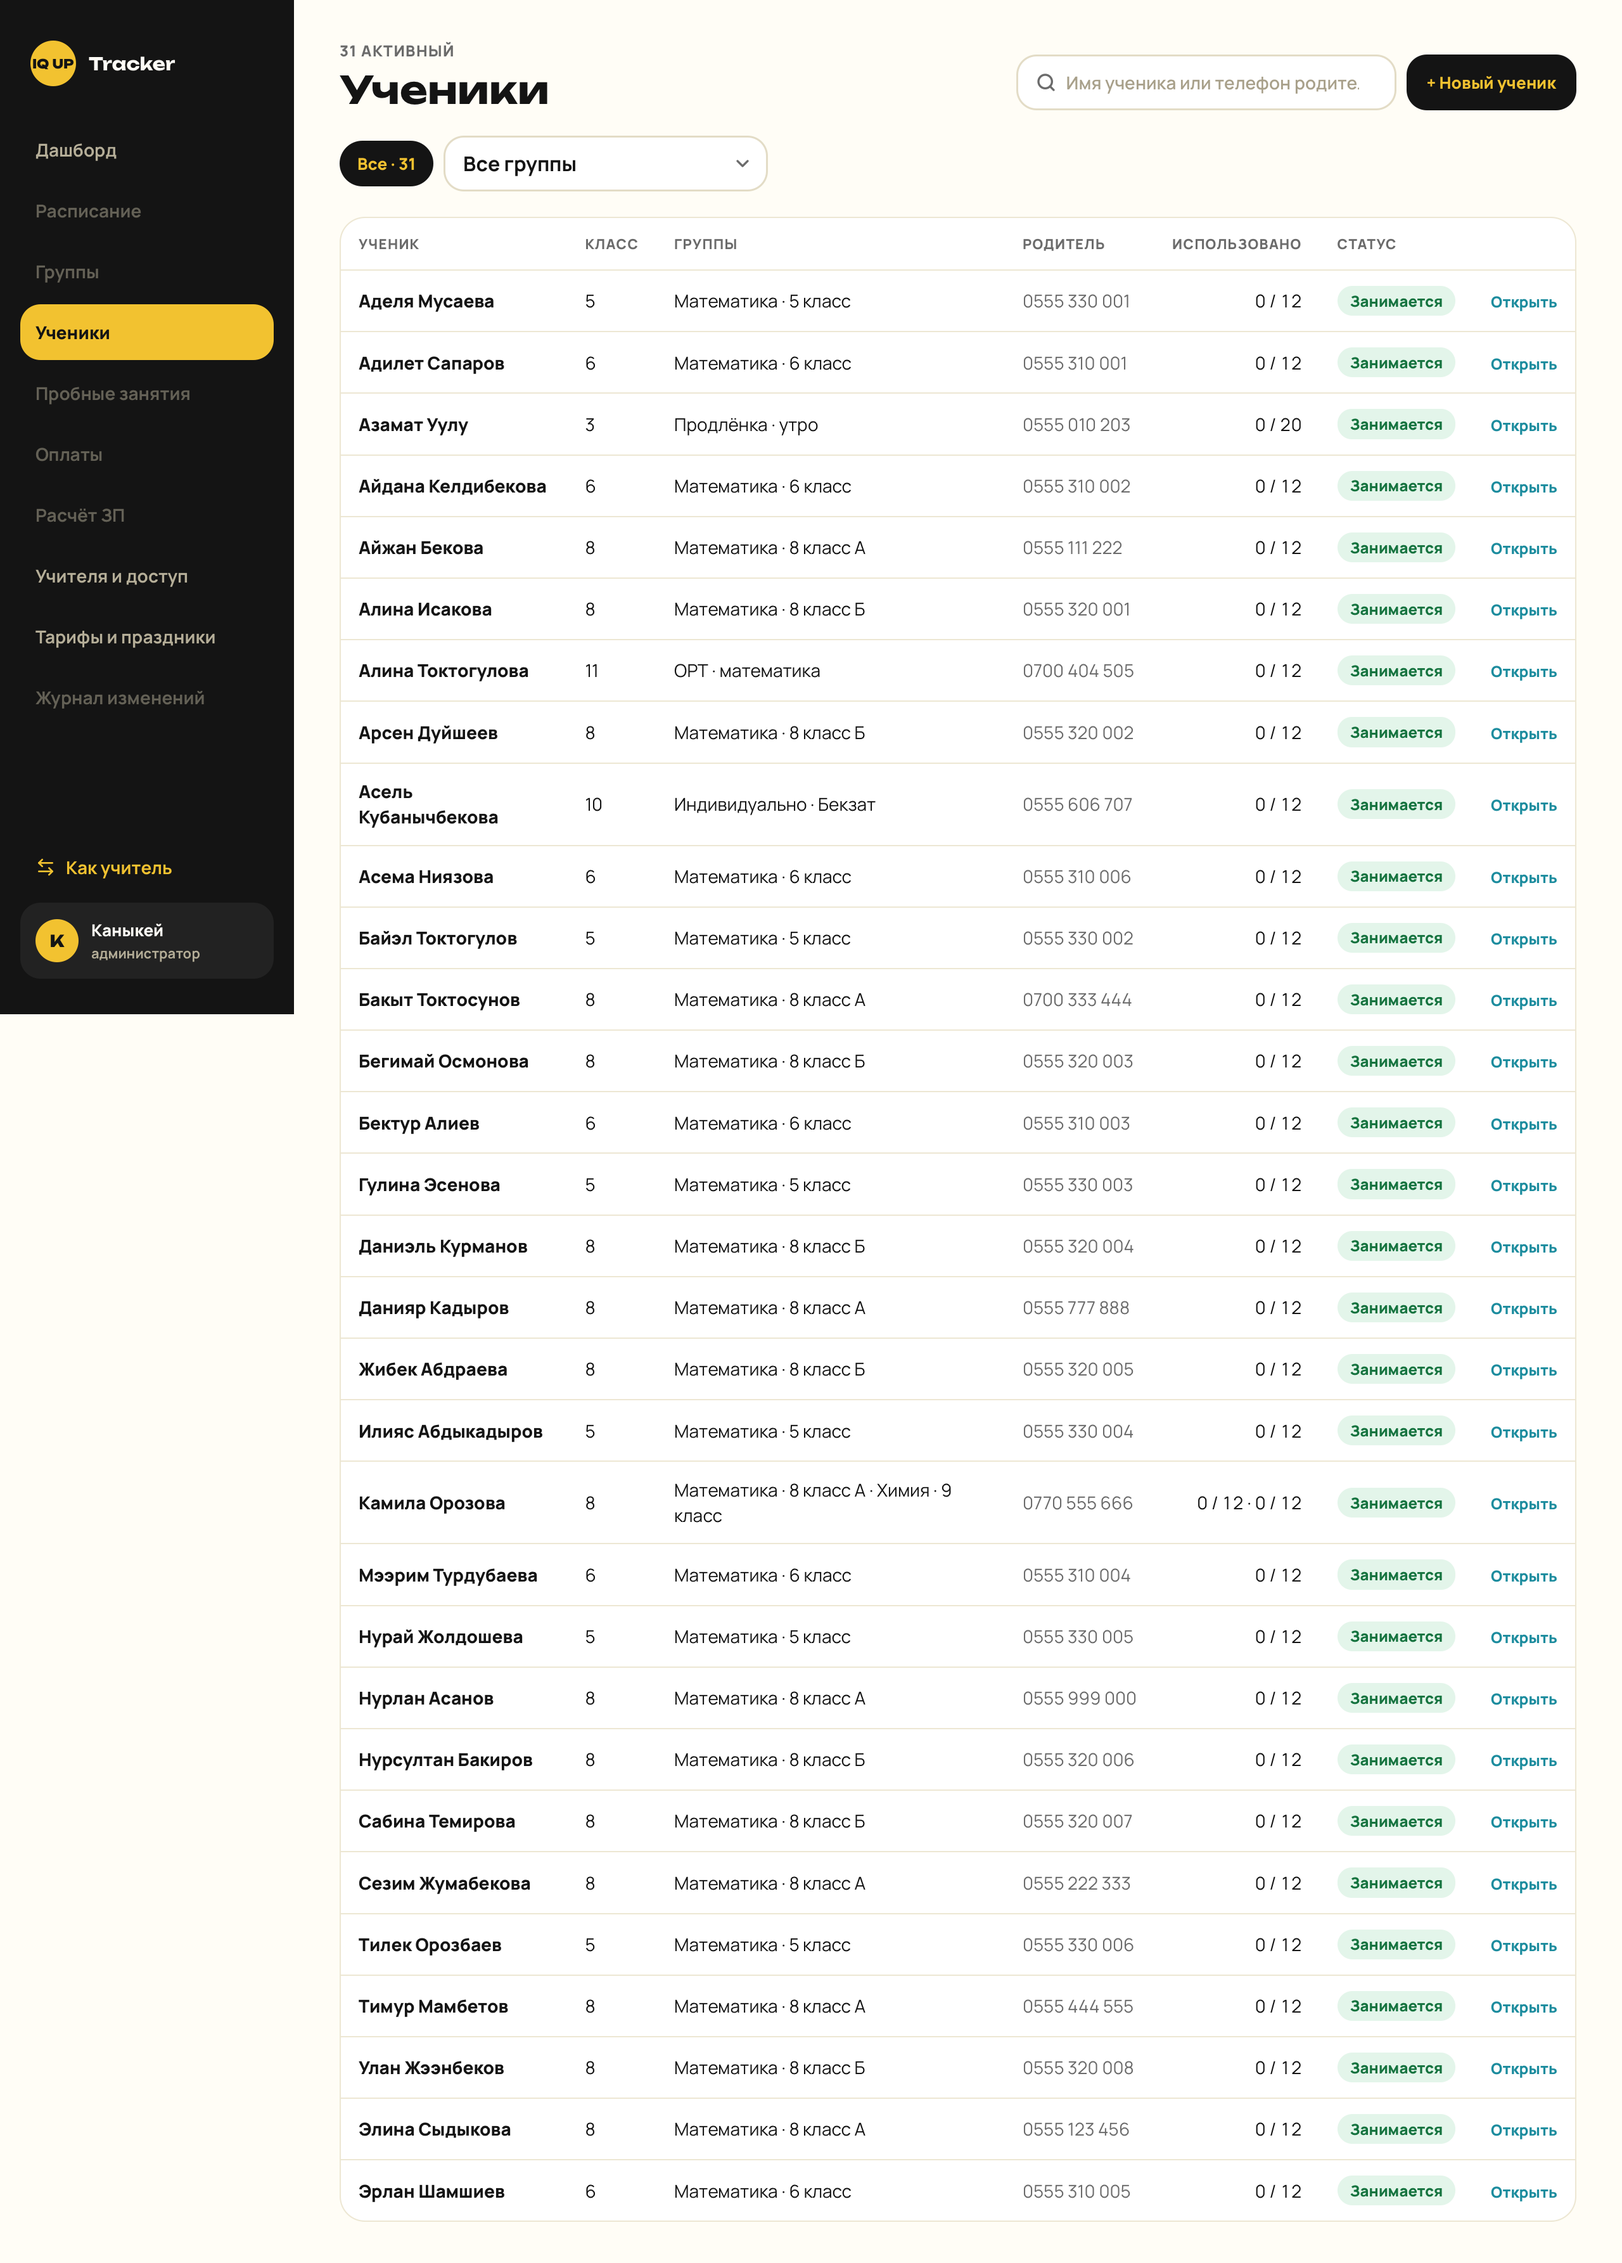
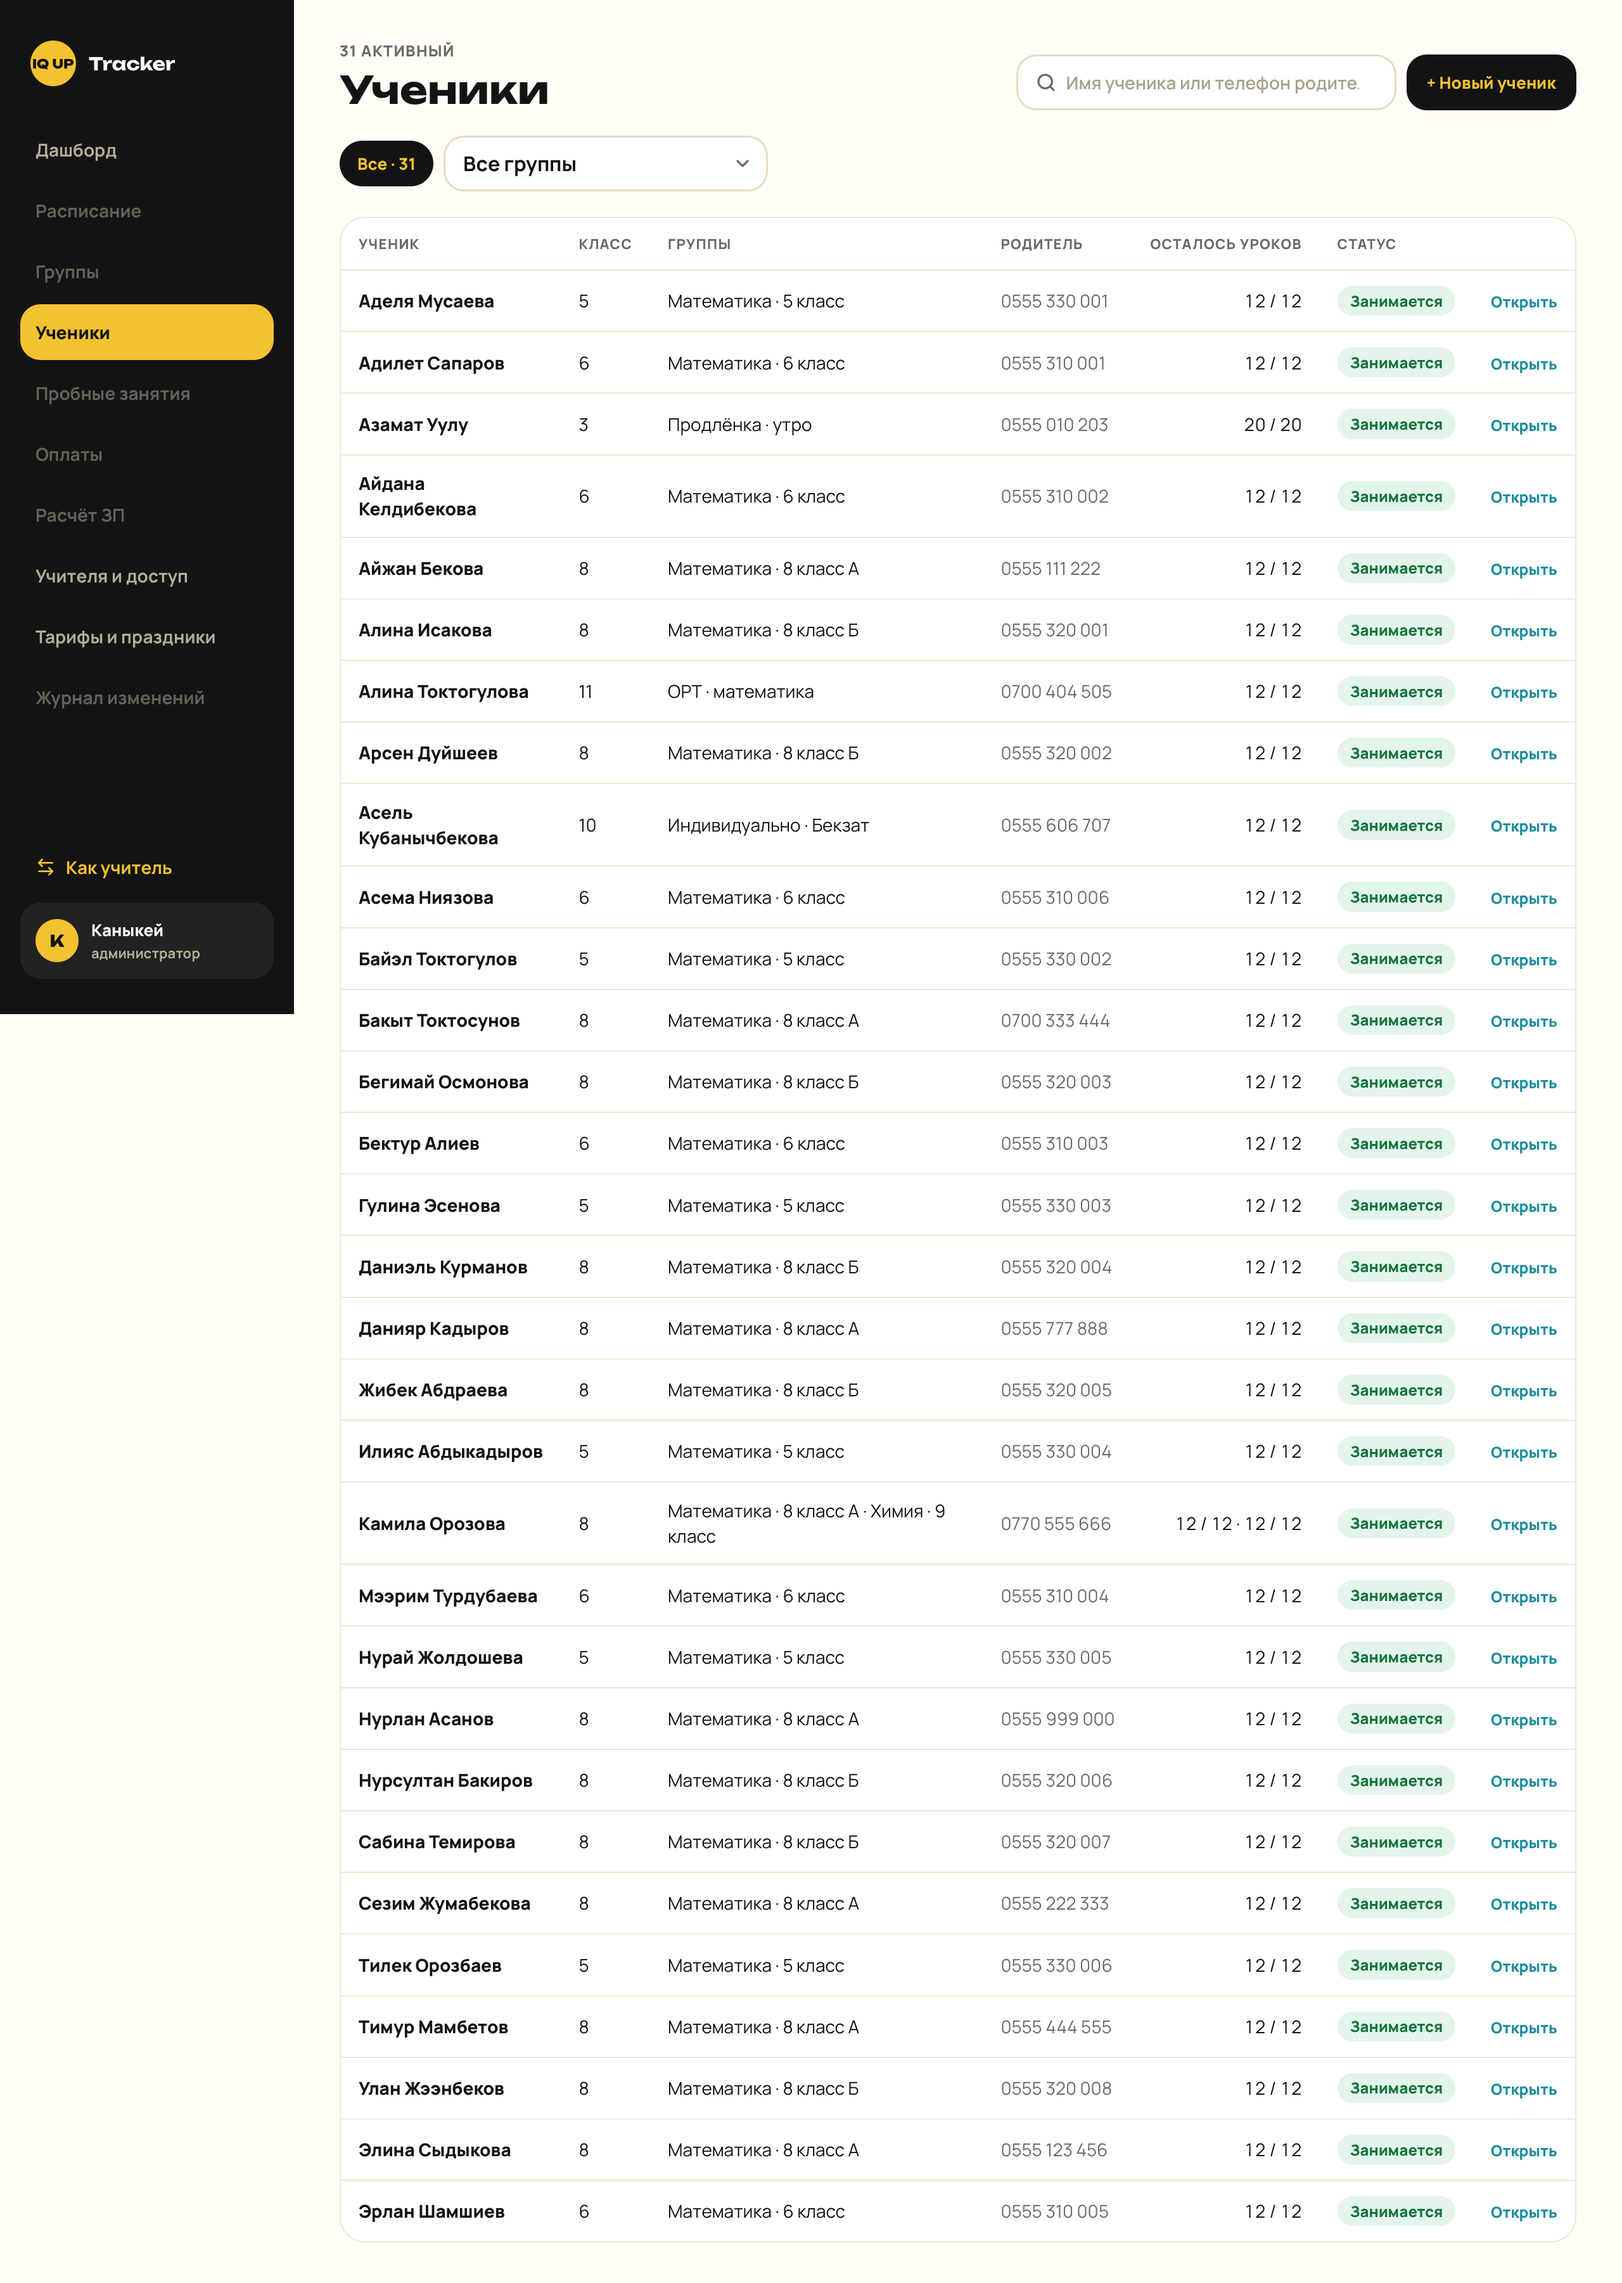
fix(students): А5 «Осталось уроков» — осталось / всего вместо использовано (#8)
- list column and mobile cards show lessons_left / lessons_total, as on artboard А5
- unit + e2e expectations updated, screenshots r1-4-students-390/1280 retaken
- e2e 403: wait for /today to settle before goto (flaky navigation race)

diff --git a/tests/e2e/admin-students.spec.ts b/tests/e2e/admin-students.spec.ts
@@ -61,7 +61,7 @@ test('А5: list with balances, search by name and phone, group filter in the URL
 
   const kamila = studentRow(page, 'Камила Орозова')
   await expect(kamila).toContainText('Математика · 8 класс А · Химия · 9 класс')
-  await expect(kamila).toContainText('0 / 12 · 0 / 12')
+  await expect(kamila).toContainText('12 / 12 · 12 / 12')
   await expect(kamila).toContainText('0770 555 666')
   await expect(kamila).toContainText('Занимается')
   await page.screenshot({ path: testInfo.outputPath('students.png'), fullPage: true })
@@ -90,7 +90,7 @@ test('А5: list with balances, search by name and phone, group filter in the URL
   await expect(studentRow(page, 'Айжан Бекова')).toHaveCount(0)
 })
 
-test('create a student → enroll into «8 класс А» with 15 % → in the group list with «0 / 12»', async ({
+test('create a student → enroll into «8 класс А» with 15 % → in the group list with «12 / 12»', async ({
   page,
 }, testInfo) => {
   const name = testName(testInfo)
@@ -162,7 +162,7 @@ test('create a student → enroll into «8 класс А» with 15 % → in the 
 
   await page.goto('/admin/students?group=00000000-0000-4000-b000-000000000001')
   const row = studentRow(page, name)
-  await expect(row).toContainText('0 / 12')
+  await expect(row).toContainText('12 / 12')
   await expect(row).toContainText('Математика · 8 класс А')
   await removeStudent(name)
 })
@@ -212,6 +212,8 @@ test('А6: student card with referrer, notes and empty attendance', async ({ pag
 test('teacher opening /admin/students sees 403', async ({ page }) => {
   await login(page, GULZAT)
   await expect(page).toHaveURL(/\/today$/)
+  // Wait for the post-login redirect to settle, otherwise it can interrupt goto.
+  await expect(page.getByRole('heading', { name: 'Сегодня, Гульзат' })).toBeVisible()
   await page.goto('/admin/students')
   await expect(page.getByText('403')).toBeVisible()
   await expect(page.getByRole('heading', { name: 'Нет доступа' })).toBeVisible()

diff --git a/src/features/students/students-page.tsx b/src/features/students/students-page.tsx
@@ -215,7 +215,7 @@ function StudentsTable({ rows }: { rows: StudentListRow[] }) {
             <th className={thClass}>Класс</th>
             <th className={thClass}>Группы</th>
             <th className={thClass}>Родитель</th>
-            <th className={cn(thClass, 'text-right')}>Использовано</th>
+            <th className={cn(thClass, 'text-right')}>Осталось уроков</th>
             <th className={thClass}>Статус</th>
             <th className={thClass}>
               <span className="sr-only">Действия</span>
@@ -249,7 +249,7 @@ function StudentsTable({ rows }: { rows: StudentListRow[] }) {
                   r.status === 'exhausted' && 'font-extrabold text-warn',
                 )}
               >
-                {r.usage || <span className="text-ink-muted">—</span>}
+                {r.remaining || <span className="text-ink-muted">—</span>}
               </td>
               <td className={tdClass}>
                 <StatusChip status={r.status} />
@@ -299,14 +299,14 @@ function StudentCards({ rows }: { rows: StudentListRow[] }) {
               <span className="whitespace-nowrap text-ink-muted">
                 {displayPhone(r.parentPhone) ?? 'нет телефона'}
               </span>
-              {r.usage && (
+              {r.remaining && (
                 <span
                   className={cn(
                     'whitespace-nowrap tabular-nums',
                     r.status === 'exhausted' && 'font-extrabold text-warn',
                   )}
                 >
-                  {r.usage}
+                  осталось {r.remaining}
                 </span>
               )}
             </div>

diff --git a/src/features/students/model.ts b/src/features/students/model.ts
@@ -256,8 +256,8 @@ export interface StudentListRow {
   /** «Математика · 8 класс А · Химия · 9 класс» — active enrollments. */
   groups: string
   groupIds: string[]
-  /** «0 / 12 · 10 / 12» — used / total per active enrollment. */
-  usage: string
+  /** «12 / 12 · 2 / 12» — lessons left / total per active enrollment (А5 «Осталось уроков»). */
+  remaining: string
   status: StudentStatus
 }
 
@@ -267,11 +267,11 @@ export function studentListRow(
   balances: ReadonlyMap<string, Balance>,
 ): StudentListRow {
   const active = enrollmentViews(s, groups, balances).filter((e) => e.active)
-  const usage = active
+  const remaining = active
     .map((e) => {
       if (!e.subscription) return '—'
-      const used = e.balance?.lessons_used ?? 0
-      return `${used} / ${e.subscription.lessons_total}`
+      const left = e.balance?.lessons_left ?? e.subscription.lessons_total
+      return `${left} / ${e.subscription.lessons_total}`
     })
     .join(' · ')
   const exhausted =
@@ -283,7 +283,7 @@ export function studentListRow(
     parentPhone: s.parent_phone,
     groups: active.map((e) => e.groupLabel).join(' · '),
     groupIds: active.flatMap((e) => (e.group ? [e.group.id] : [])),
-    usage,
+    remaining,
     status: active.length === 0 ? 'not_enrolled' : exhausted ? 'exhausted' : 'active',
   }
 }

diff --git a/src/features/students/model.test.ts b/src/features/students/model.test.ts
@@ -133,18 +133,19 @@ describe('studentListRows (А5)', () => {
   const rows = studentListRows(source)
   const by = (id: string) => rows.find((r) => r.id === id)
 
-  it('used / total of the current subscription per active group', () => {
+  it('left / total of the current subscription per active group', () => {
     expect(by('kamila')).toMatchObject({
       groups: 'Математика · 8 класс А · Химия · 9 класс',
-      usage: '6 / 12 · 10 / 12',
+      remaining: '6 / 12 · 2 / 12',
       status: 'active',
       groupIds: ['g8a', 'chem'],
     })
-    expect(by('nurlan')?.usage).toBe('0 / 12')
+    expect(by('nurlan')?.remaining).toBe('12 / 12')
+    expect(by('elina')?.remaining).toBe('0 / 12')
   })
 
   it('status: not enrolled, lessons over', () => {
-    expect(by('new')).toMatchObject({ status: 'not_enrolled', groups: '', usage: '' })
+    expect(by('new')).toMatchObject({ status: 'not_enrolled', groups: '', remaining: '' })
     expect(by('elina')?.status).toBe('exhausted')
   })
 
